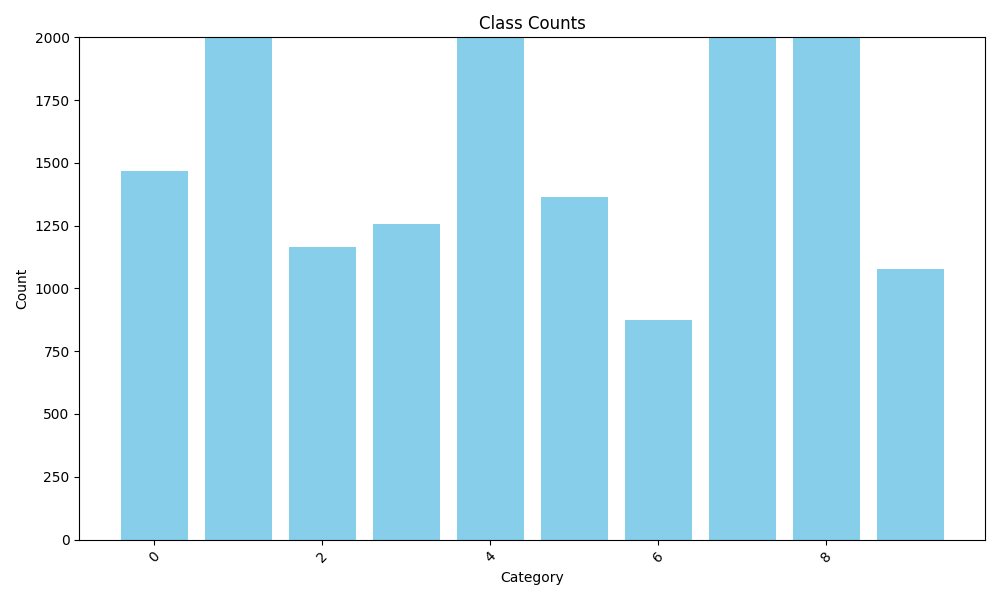
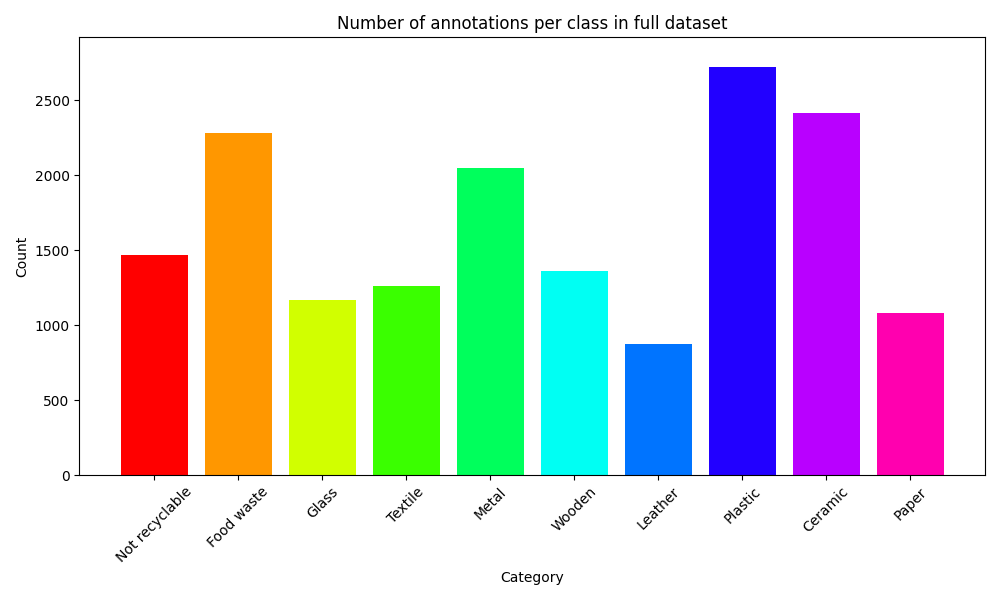
better plotting of class counts

diff --git a/count_dataset_classes.py b/count_dataset_classes.py
@@ -1,5 +1,6 @@
 import os
 import matplotlib.pyplot as plt
+import matplotlib.pyplot as plt
 
 def read_txt_files(folder_path):
     class_counts = {}
@@ -24,22 +25,34 @@ def read_txt_files(folder_path):
     print(f"Total number of annotations: {counter}")
     return class_counts
 
-def plot_bar_chart(class_counts, save_path: str = "plot.png"):
-    categories = list(class_counts.keys())
-    counts = list(class_counts.values())
+def plot_bar_chart(
+    class_counts, 
+    class_mapping: dict, 
+    plot_title: str = "Class Counts", 
+    save_path: str = "plot.png"
+):
+    # Sort categories and counts by the key (integer label)
+    sorted_categories = sorted(class_counts.keys())
+    sorted_counts = [class_counts[category] for category in sorted_categories]
+
+    # Map sorted integer labels to class names
+    sorted_class_names = [class_mapping[category] for category in sorted_categories]
+
+    # Generate a color map with as many colors as there are categories
+    colormap = plt.get_cmap('hsv', len(sorted_categories)+1)
+    colors = colormap(range(len(sorted_categories)))
 
     plt.figure(figsize=(10, 6))
-    plt.bar(categories, counts, color='skyblue')
+    plt.bar(sorted_class_names, sorted_counts, color=colors)
     plt.xlabel('Category')
     plt.ylabel('Count')
-    plt.title('Class Counts')
+    plt.title(plot_title)
     plt.xticks(rotation=45)
-    plt.ylim(0, 2000)
+    plt.ylim(0, max(sorted_counts) + 200 if max(sorted_counts) > 2000 else 2000)
     plt.tight_layout()
-    # plt.show()
 
-    # dave_path = os.path.join(save_path, relative_path)
     plt.savefig(save_path)
+    plt.close()  # Close the plot to free up memory
 
 def main(split: str = "full"):
     SPLIT = split
@@ -57,9 +70,17 @@ def main(split: str = "full"):
 
     class_counts = read_txt_files(full_path)
     print(class_counts)
+
+    # Class names
+    class_mapping = {0: 'Not recyclable', 1: 'Food waste', 2: 'Glass', 3: 'Textile', 4: 'Metal', 5: 'Wooden', 6: 'Leather', 7: 'Plastic', 8: 'Ceramic', 9: 'Paper'}
     
     save_dir = os.path.join(current_dir, "my_dataset_class_count_" + SPLIT + ".png")
-    plot_bar_chart(class_counts, save_dir)    
+    plot_bar_chart(
+        class_counts, 
+        class_mapping=class_mapping, 
+        plot_title='Number of annotations per class in full dataset' if SPLIT == 'full' else f"Number of annotations per class in {SPLIT} split",
+        save_path=save_dir)    
+    
     return class_counts
 
 if __name__ == "__main__":
